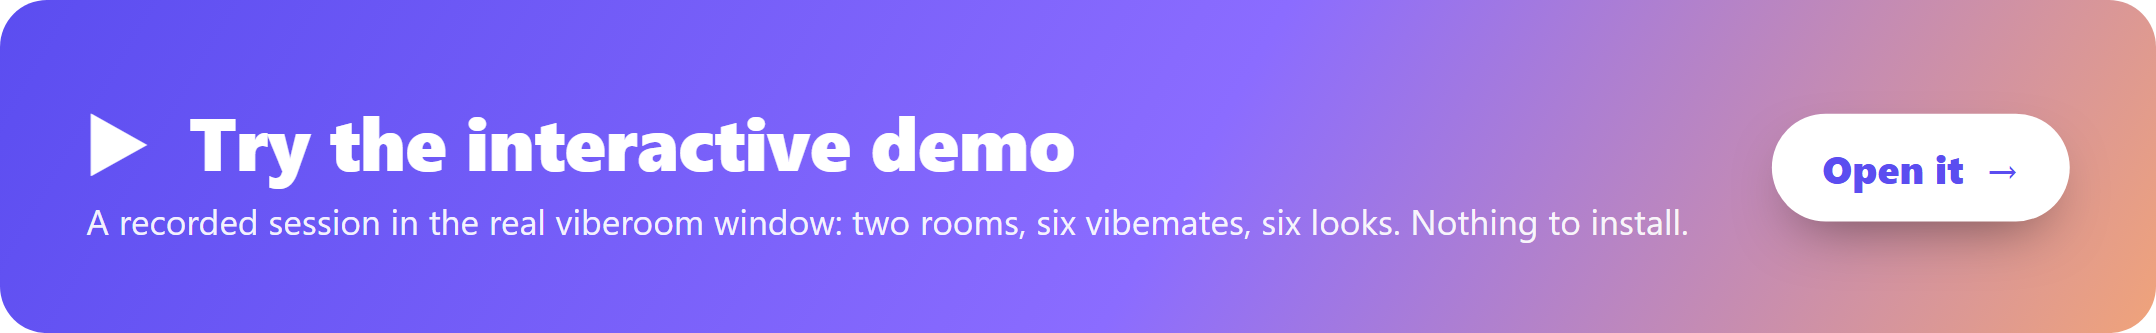
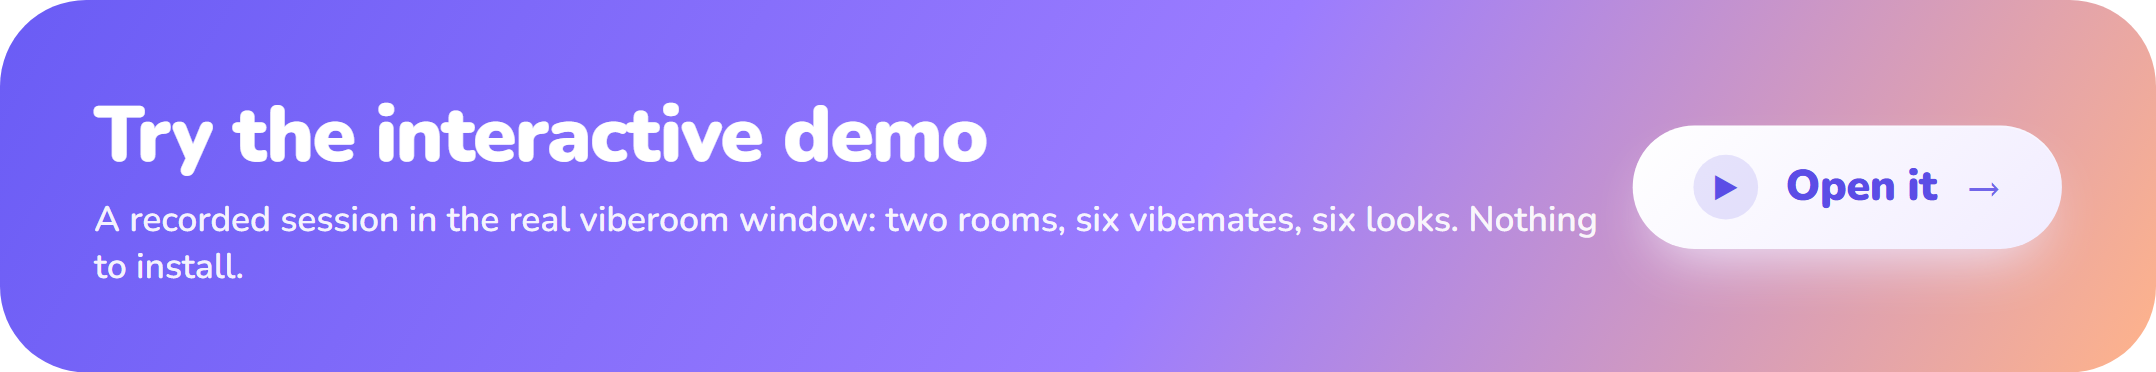
viberoom 0.9.1: the README opens with the wordmark, the looks in motion and a pastel card per look
The icon and the title are one picture, the wordmark set tight in the window's
own face, light and dark for the reader's theme. Each look sits on a rounded
pastel pad with the recorded room inside and a button drawn into the picture;
the cards alternate sides down the page and open the demo on GitHub Pages.

diff --git a/README.md b/README.md
@@ -1,8 +1,9 @@
 <p align="center">
-  <img src="https://raw.githubusercontent.com/todor-rusev/viberoom/main/assets/icon-256.png" width="128" height="128" alt="viberoom">
+  <picture>
+    <source media="(prefers-color-scheme: dark)" srcset="https://raw.githubusercontent.com/todor-rusev/viberoom/main/docs/screenshots/readme/viberoom-dark.png">
+    <img src="https://raw.githubusercontent.com/todor-rusev/viberoom/main/docs/screenshots/readme/viberoom.png" width="620" alt="viberoom">
+  </picture>
 </p>
-
-<h1 align="center">viberoom</h1>
 
 <p align="center"><strong>One chat, many coding agents.</strong><br>
 Open a room, summon the agents you already have, give each one a role, and let them work it out with you and with each other.</p>
@@ -36,42 +37,42 @@ the Mermaid diagrams as they happened. The session is recorded as pages that run
 with no hub behind it. Every card below opens it in that look: walk between the rooms, open the participants,
 change the look under Settings. (The pages live in [`docs/demo/`](docs/demo/) too, for a copy of your own.)
 
-<a href="https://todor-rusev.github.io/viberoom/demo/vibeclassic.html"><img align="right" width="460" src="https://raw.githubusercontent.com/todor-rusev/viberoom/main/docs/screenshots/readme/card-vibeclassic.jpg" alt="VibeClassic"></a>
+<a href="https://todor-rusev.github.io/viberoom/demo/vibeclassic.html"><img align="right" width="460" src="https://raw.githubusercontent.com/todor-rusev/viberoom/main/docs/screenshots/readme/card-vibeclassic.webp" alt="VibeClassic"></a>
 
 **VibeClassic** &mdash; the default: lavender light, soft tiles, room to breathe.<br>
 <a href="https://todor-rusev.github.io/viberoom/demo/vibeclassic.html">Open the demo in VibeClassic &rarr;</a>
 
 <br clear="all">
 
-<a href="https://todor-rusev.github.io/viberoom/demo/vibeclassic-dark.html"><img align="left" width="460" src="https://raw.githubusercontent.com/todor-rusev/viberoom/main/docs/screenshots/readme/card-vibeclassic-dark.jpg" alt="VibeClassic Dark"></a>
+<a href="https://todor-rusev.github.io/viberoom/demo/vibeclassic-dark.html"><img align="left" width="460" src="https://raw.githubusercontent.com/todor-rusev/viberoom/main/docs/screenshots/readme/card-vibeclassic-dark.webp" alt="VibeClassic Dark"></a>
 
 **VibeClassic Dark** &mdash; the same room after dark: navy paper, the same tiles, nothing glares.<br>
 <a href="https://todor-rusev.github.io/viberoom/demo/vibeclassic-dark.html">Open the demo in VibeClassic Dark &rarr;</a>
 
 <br clear="all">
 
-<a href="https://todor-rusev.github.io/viberoom/demo/clay.html"><img align="right" width="460" src="https://raw.githubusercontent.com/todor-rusev/viberoom/main/docs/screenshots/readme/card-clay.jpg" alt="Clay"></a>
+<a href="https://todor-rusev.github.io/viberoom/demo/clay.html"><img align="right" width="460" src="https://raw.githubusercontent.com/todor-rusev/viberoom/main/docs/screenshots/readme/card-clay.webp" alt="Clay"></a>
 
 **Clay** &mdash; sand, terracotta and teal on warm paper; matte objects, soft corners.<br>
 <a href="https://todor-rusev.github.io/viberoom/demo/clay.html">Open the demo in Clay &rarr;</a>
 
 <br clear="all">
 
-<a href="https://todor-rusev.github.io/viberoom/demo/eye-comfort.html"><img align="left" width="460" src="https://raw.githubusercontent.com/todor-rusev/viberoom/main/docs/screenshots/readme/card-eye-comfort.jpg" alt="Eye Comfort"></a>
+<a href="https://todor-rusev.github.io/viberoom/demo/eye-comfort.html"><img align="left" width="460" src="https://raw.githubusercontent.com/todor-rusev/viberoom/main/docs/screenshots/readme/card-eye-comfort.webp" alt="Eye Comfort"></a>
 
 **Eye Comfort** &mdash; cream instead of white, dark grey instead of black, air between the lines: made for long evenings.<br>
 <a href="https://todor-rusev.github.io/viberoom/demo/eye-comfort.html">Open the demo in Eye Comfort &rarr;</a>
 
 <br clear="all">
 
-<a href="https://todor-rusev.github.io/viberoom/demo/3d-clayful.html"><img align="right" width="460" src="https://raw.githubusercontent.com/todor-rusev/viberoom/main/docs/screenshots/readme/card-3d-clayful.jpg" alt="3D clayful"></a>
+<a href="https://todor-rusev.github.io/viberoom/demo/3d-clayful.html"><img align="right" width="460" src="https://raw.githubusercontent.com/todor-rusev/viberoom/main/docs/screenshots/readme/card-3d-clayful.webp" alt="3D clayful"></a>
 
 **3D clayful** &mdash; cream, lavender, pink and mint with real volume: light from the top left, a wall under every object.<br>
 <a href="https://todor-rusev.github.io/viberoom/demo/3d-clayful.html">Open the demo in 3D clayful &rarr;</a>
 
 <br clear="all">
 
-<a href="https://todor-rusev.github.io/viberoom/demo/terminal.html"><img align="left" width="460" src="https://raw.githubusercontent.com/todor-rusev/viberoom/main/docs/screenshots/readme/card-terminal.jpg" alt="Terminal"></a>
+<a href="https://todor-rusev.github.io/viberoom/demo/terminal.html"><img align="left" width="460" src="https://raw.githubusercontent.com/todor-rusev/viberoom/main/docs/screenshots/readme/card-terminal.webp" alt="Terminal"></a>
 
 **Terminal** &mdash; phosphor green on black, one monospace face, hairlines instead of shadows.<br>
 <a href="https://todor-rusev.github.io/viberoom/demo/terminal.html">Open the demo in Terminal &rarr;</a>
